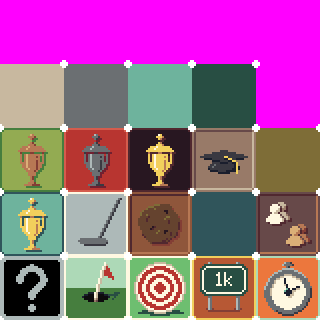
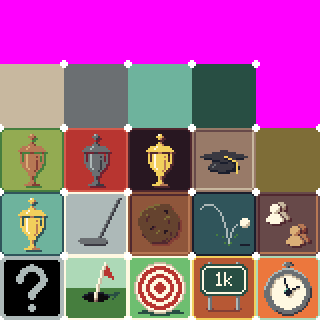
implement boomerang and leader of the pack achievements

Changed region(s): [[0.5938, 0.5938, 0.8125, 0.8125]]

diff --git a/samples/golf/src/golf/GolfStateUI.cpp b/samples/golf/src/golf/GolfStateUI.cpp
@@ -38,6 +38,8 @@ source distribution.
 #include "ScoreStrings.hpp"
 #include "MessageIDs.hpp"
 #include "../ErrorCheck.hpp"
+#include "../Achievements.hpp"
+#include "../AchievementStrings.hpp"
 
 #include <crogine/ecs/components/Transform.hpp>
 #include <crogine/ecs/components/Sprite.hpp>
@@ -808,6 +810,13 @@ void GolfState::showCountdown(std::uint8_t seconds)
     updateScoreboard();
     showScoreboard(true);
 
+    //check if we're the winner
+    if (m_statBoardScores.size() > 1 &&
+        m_statBoardScores[0].client == m_sharedData.clientConnection.connectionID)
+    {
+        Achievements::awardAchievement(AchievementStrings[AchievementID::LeaderOfThePack]);
+    }
+
     auto& font = m_sharedData.sharedResources->fonts.get(FontID::UI);
 
     auto entity = m_uiScene.createEntity();
@@ -992,9 +1001,11 @@ void GolfState::updateScoreboard()
         };
 
         std::vector<ScoreEntry> scores;
+        m_statBoardScores.clear();
 
         std::uint32_t playerCount = 0;
         auto holeCount = m_holeData.size();
+        std::int32_t clientID = 0;
         for (const auto& client : m_sharedData.connectionData)
         {
             playerCount += client.playerCount;
@@ -1016,9 +1027,21 @@ void GolfState::updateScoreboard()
                     }
                 }
                 entry.total = entry.frontNine + entry.backNine;
+
+                //for stat/achievment tracking
+                auto& leaderboardEntry = m_statBoardScores.emplace_back();
+                leaderboardEntry.client = clientID;
+                leaderboardEntry.player = i;
+                leaderboardEntry.score = entry.total;
             }
+            clientID++;
         }
 
+        std::sort(m_statBoardScores.begin(), m_statBoardScores.end(),
+            [](const StatBoardEntry& a, const StatBoardEntry& b)
+            {
+                return a.score < b.score;
+            });
 
 
         //auto playerCount = 16u;
@@ -1344,6 +1367,14 @@ void GolfState::showMessageBoard(MessageBoardID messageType)
         if (m_currentPlayer.client != m_sharedData.clientConnection.connectionID)
         {
             score++;
+        }
+        else
+        {
+            //if this is a local player check to see if they got the boomerang achievement
+            if (m_hadFoul && overPar < 1)
+            {
+                Achievements::awardAchievement(AchievementStrings[AchievementID::Boomerang]);
+            }
         }
 
         auto* msg = cro::App::getInstance().getMessageBus().post<GolfEvent>(MessageID::GolfMessage);

diff --git a/samples/golf/src/golf/GolfState.cpp b/samples/golf/src/golf/GolfState.cpp
@@ -142,7 +142,8 @@ GolfState::GolfState(cro::StateStack& stack, cro::State::Context context, Shared
     m_camRotation       (0.f),
     m_roundEnded        (false),
     m_viewScale         (1.f),
-    m_scoreColumnCount  (2)
+    m_scoreColumnCount  (2),
+    m_hadFoul           (false)
 {
     context.mainWindow.loadResources([this]() {
         addSystems();
@@ -2447,9 +2448,11 @@ void GolfState::handleNetEvent(const cro::NetEvent& evt)
                 break;
             case TerrainID::Scrub:
                 showMessageBoard(MessageBoardID::Scrub);
+                m_hadFoul = (m_currentPlayer.client == m_sharedData.clientConnection.connectionID);
                 break;
             case TerrainID::Water:
                 showMessageBoard(MessageBoardID::Water);
+                m_hadFoul = (m_currentPlayer.client == m_sharedData.clientConnection.connectionID);
                 break;
             case TerrainID::Hole:
                 showMessageBoard(MessageBoardID::HoleScore);
@@ -2638,6 +2641,7 @@ void GolfState::removeClient(std::uint8_t clientID)
 void GolfState::setCurrentHole(std::uint32_t hole)
 {
     updateScoreboard();
+    m_hadFoul = false;
 
     //CRO_ASSERT(hole < m_holeData.size(), "");
     if (hole >= m_holeData.size())

diff --git a/samples/golf/src/golf/GolfState.hpp b/samples/golf/src/golf/GolfState.hpp
@@ -275,4 +275,17 @@ private:
 
     cro::Entity m_greenCam;
     cro::RenderTexture m_greenBuffer;
+
+    //------------
+
+    bool m_hadFoul; //tracks 'boomerang' stat
+
+    //for tracking scoreboard based stats
+    struct StatBoardEntry final
+    {
+        std::uint8_t client = 0;
+        std::uint8_t player = 0;
+        std::int32_t score = 0;
+    };
+    std::vector<StatBoardEntry> m_statBoardScores;
 };
